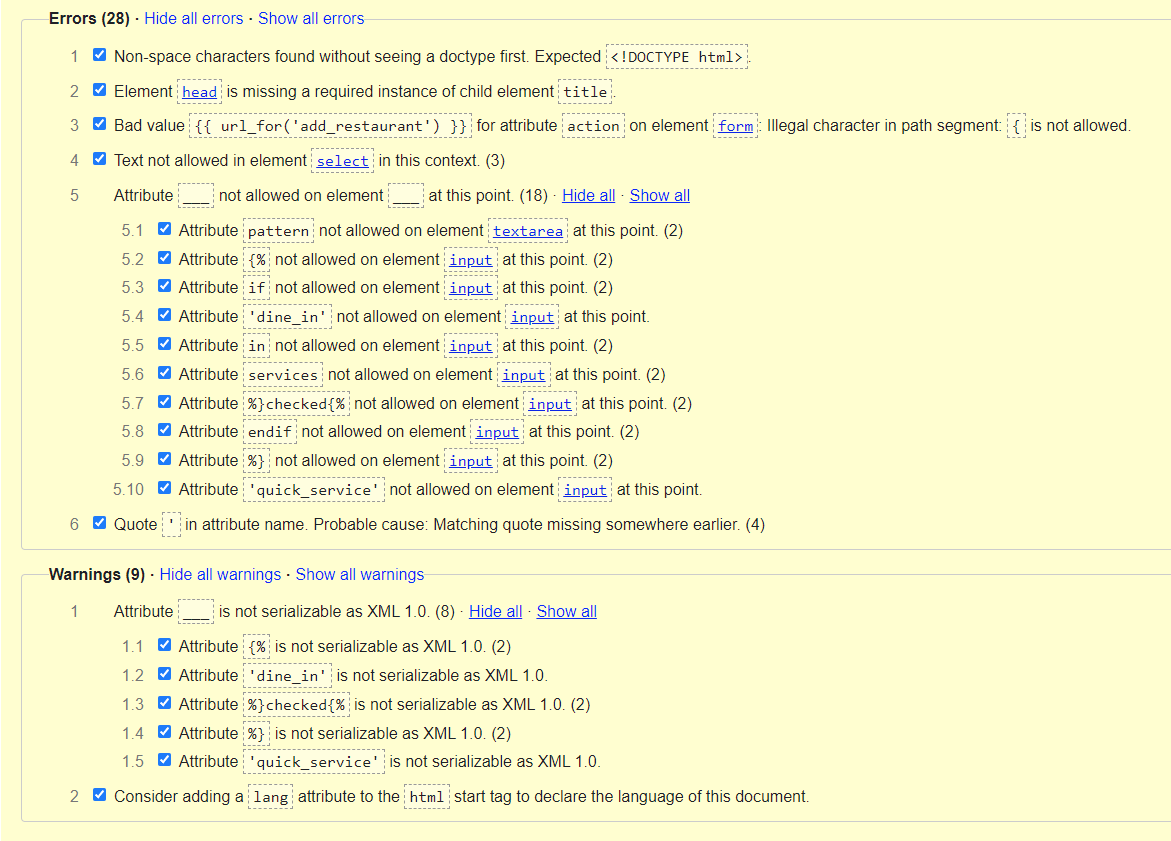
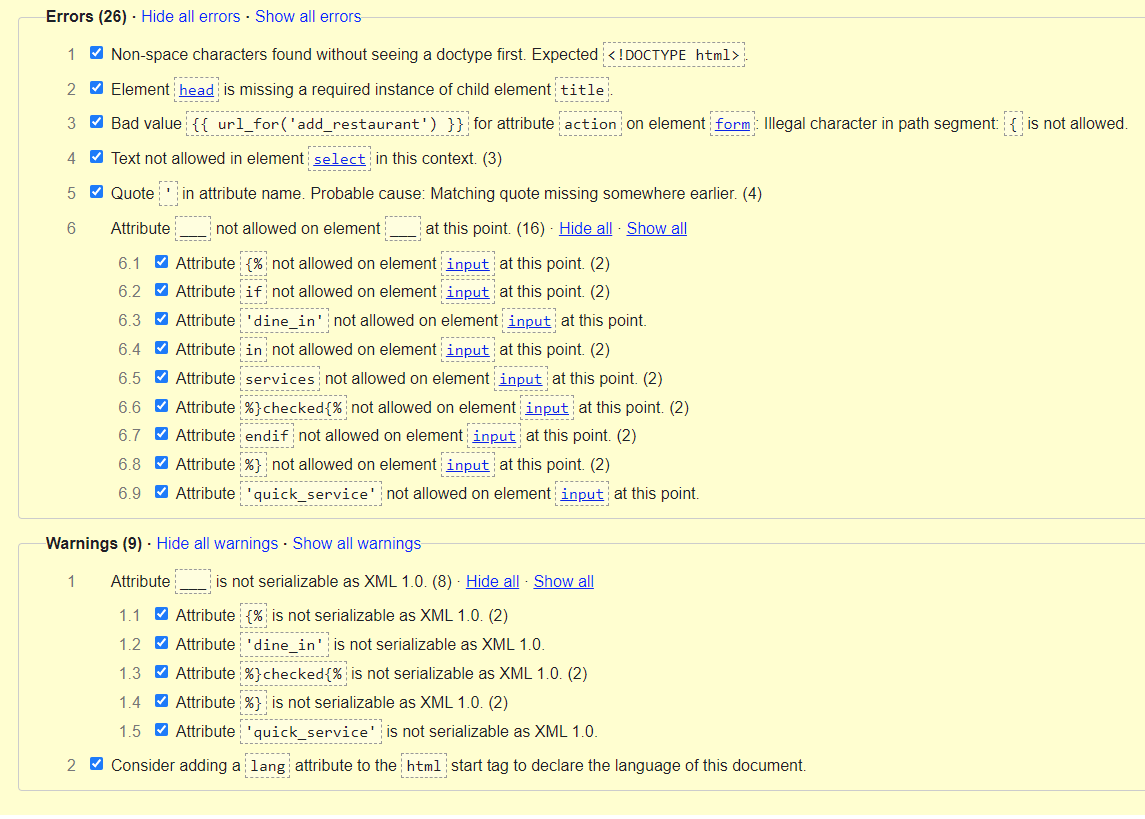
Update validator screenshots

Changed region(s): [[0.0, 0.0611, 1.0, 1.0], [0.0306, 0.0, 0.3362, 0.0305]]

diff --git a/mousepediadb/templates/add_park.html b/mousepediadb/templates/add_park.html
@@ -47,7 +47,7 @@
             <div class="row">
                 <div class="input-field col s12">
                     <i class="fa-solid fa-calendar-days blue-text text-darken-4 prefix"></i>
-                    <input type="text" name="date_opened" class="datepicker validate" required>
+                    <input type="text" name="date_opened" id="date_opened" class="datepicker validate" required>
                     <label for="date_opened">Date Opened</label>
                 </div>
             </div>
@@ -55,12 +55,12 @@
             <div class="row">
                 <div class="input-field col s6">
                     <i class="fa-solid fa-clock blue-text text-darken-4 prefix"></i>
-                    <input type="text" class="timepicker validate" name="time_open" required>
+                    <input type="text" class="timepicker validate" id="time_open" name="time_open" required>
                     <label for="time_open">Time park opens</label>
                 </div>
                 <div class="input-field col s6">
                     <i class="fa-solid fa-clock blue-text text-darken-4 prefix"></i>
-                    <input type="text" class="timepicker validate" name="time_closed" required>
+                    <input type="text" class="timepicker validate" id="time_closed" name="time_closed" required>
                     <label for="time_closed">Time park closes</label>
                 </div>
             </div>

diff --git a/TESTING.md b/TESTING.md
@@ -230,12 +230,12 @@ All pages have been viewed in the Chrome developer tools to ensure each page is 
 * restaurants.html - Passed with no errors - [Result](/documentation/testing/validators/restaurant-page-html-validator.png)
 * add_park.html - Passed with errors due to jinja templating - [Result](documentation/testing/validators/add-park-html-validator.png)
 * add_ride.html - Passed with errors due to jinja templating - [Result](documentation/testing/validators/add-ride-html-validator.png)
-* add_restaurant.html - Passed, all errors relate to jinja templating & pattern attribute see [Known Bugs](#known-bugs) for more details - [Result](documentation/testing/validators/add-rest-html-validator.png)
-* edit_park.html - Passed, all errors relate to jinja templating & pattern attribute see [Known Bugs](#known-bugs) for more details - [Result](documentation/testing/validators/edit-park-html-validator.png)
-* edit_ride.html - Passed, only errors showing are to do with jinja templating - [Result](documentation/testing/validators/edit-ride-html-validator.png)
-* edit_restaurant.html - Passed, all errors relate to jinja templating & pattern attribute see [Known Bugs](#known-bugs) for more details - [Result](/documentation/testing/validators/edit-rest-html-validator.png)
+* add_restaurant.html - Passed, all errors relate to jinja templating - [Result](documentation/testing/validators/add-rest-html-validator.png)
+* edit_park.html - Passed, all errors relate to jinja templating - [Result](documentation/testing/validators/edit-park-html-validator.png)
+* edit_ride.html - Passed, all errors relate to jinja templating - [Result](documentation/testing/validators/edit-ride-html-validator.png)
+* edit_restaurant.html - Passed, all errors relate to jinja templating - [Result](/documentation/testing/validators/edit-rest-html-validator.png)
 * 404.html - Passed with errors due to jinja templating - [Result](documentation/testing/validators/404-html-validator.png)
-* style.css - Passed - [Result](documentation/testing/validators/css-validator.png)  
+* style.css - Passed with no errors - [Result](documentation/testing/validators/css-validator.png)  
 
 ### JavaScript Validator
 
